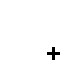
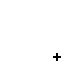
Add plus sign to big background patterns
Also add a lame proof-of-concept background, to be removed later.

Changed region(s): [[0.7188, 0.7188, 0.9688, 0.9688]]

diff --git a/gui/application.py b/gui/application.py
@@ -24,6 +24,8 @@ class Application: # singleton
         gtk.window_set_default_icon_list(*icons)
         gdk.set_program_class('MyPaint')
 
+        self.pixmaps = PixbufDirectory(os.path.join(self.datapath, 'pixmaps'))
+
         self.user_brushpath = os.path.join(self.confpath, 'brushes')
         self.stock_brushpath = os.path.join(self.datapath, 'brushes')
 
@@ -191,3 +193,14 @@ class Application: # singleton
         if name in 'drawWindow brushSelectionWindow colorSelectionWindow'.split():
             window.show_all()
 
+
+class PixbufDirectory:
+    def __init__(self, dirname):
+        self.dirname = dirname
+        self.cache = {}
+
+    def __getattr__(self, name):
+        if name not in self.cache:
+            pixbuf = gdk.pixbuf_new_from_file(os.path.join(self.dirname, name + '.png'))
+            self.cache[name] = pixbuf
+        return self.cache[name]

diff --git a/gui/backgroundwindow.py b/gui/backgroundwindow.py
@@ -143,6 +143,9 @@ class BackgroundList(pixbuflist.PixbufList):
             return pixbuf
         if pixbuf not in self.pixbufs_scaled:
             scaled = helpers.pixbuf_thumbnail(pixbuf, N, N)
+            # add plus sign
+            self.app.pixmaps.plus.composite(scaled, 0, 0, N, N, 0, 0, 1.0, 1.0, gdk.INTERP_BILINEAR, 255)
+
             self.pixbufs_scaled[pixbuf] = scaled
 
         return self.pixbufs_scaled[pixbuf]
